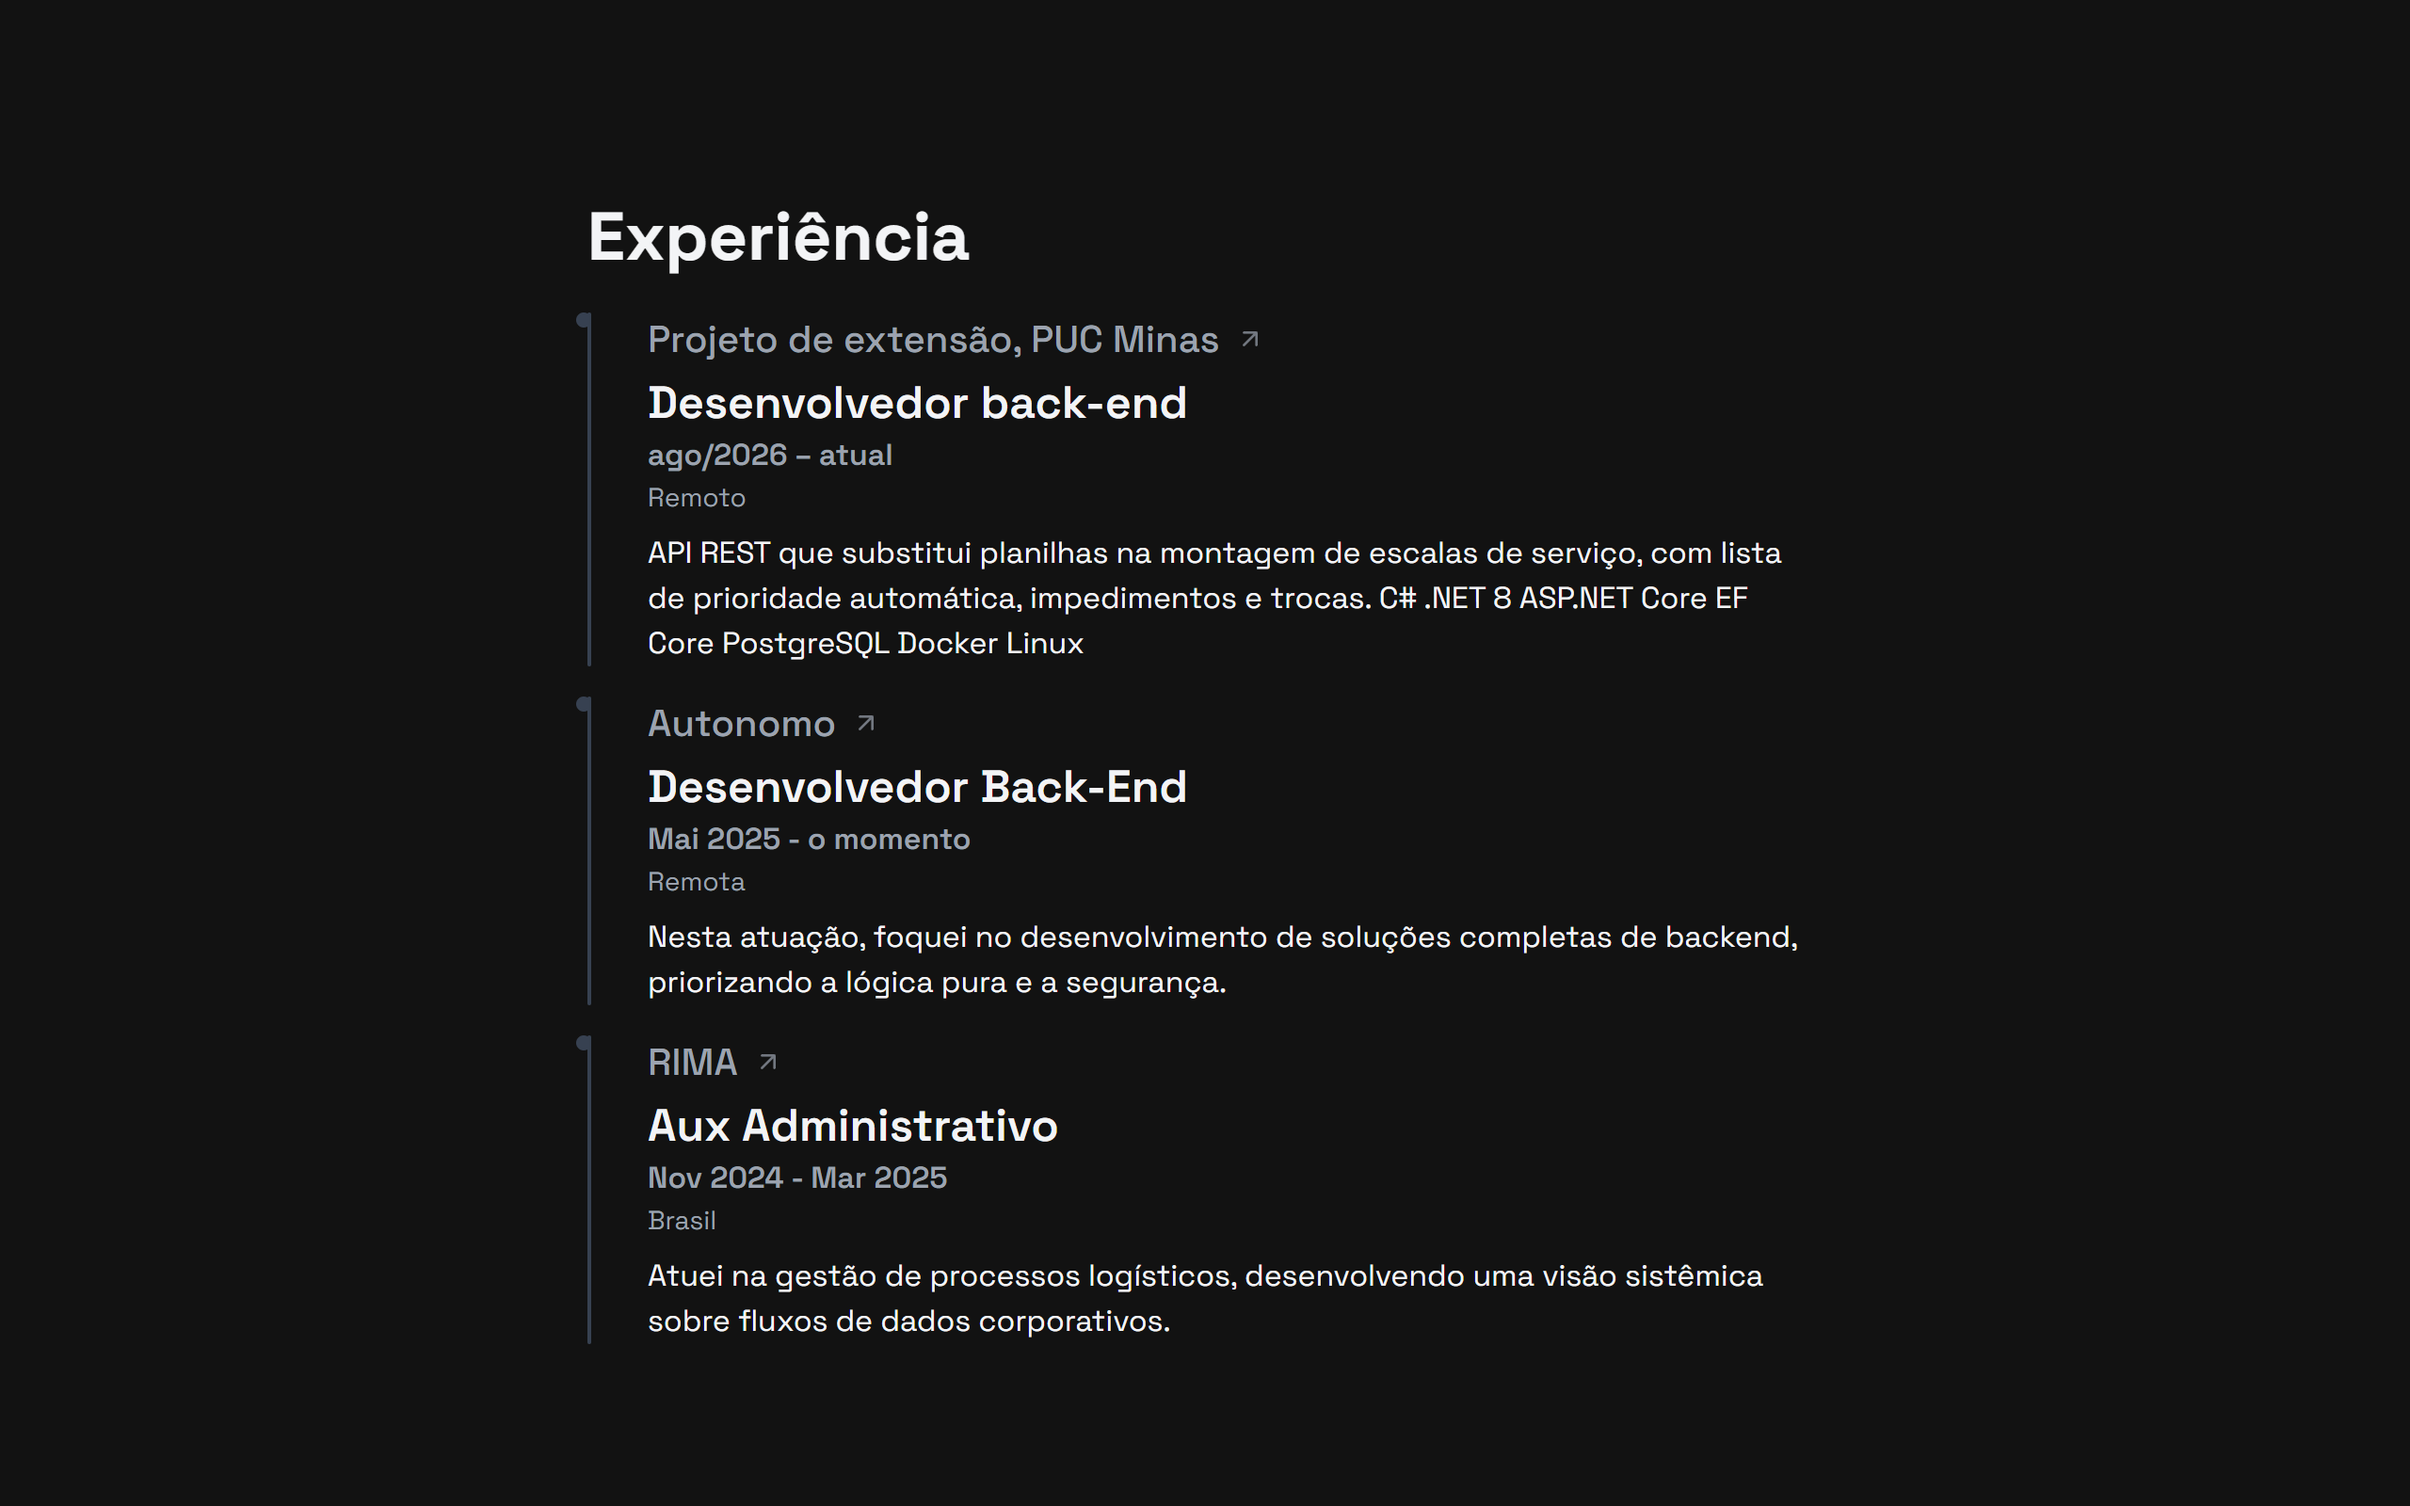
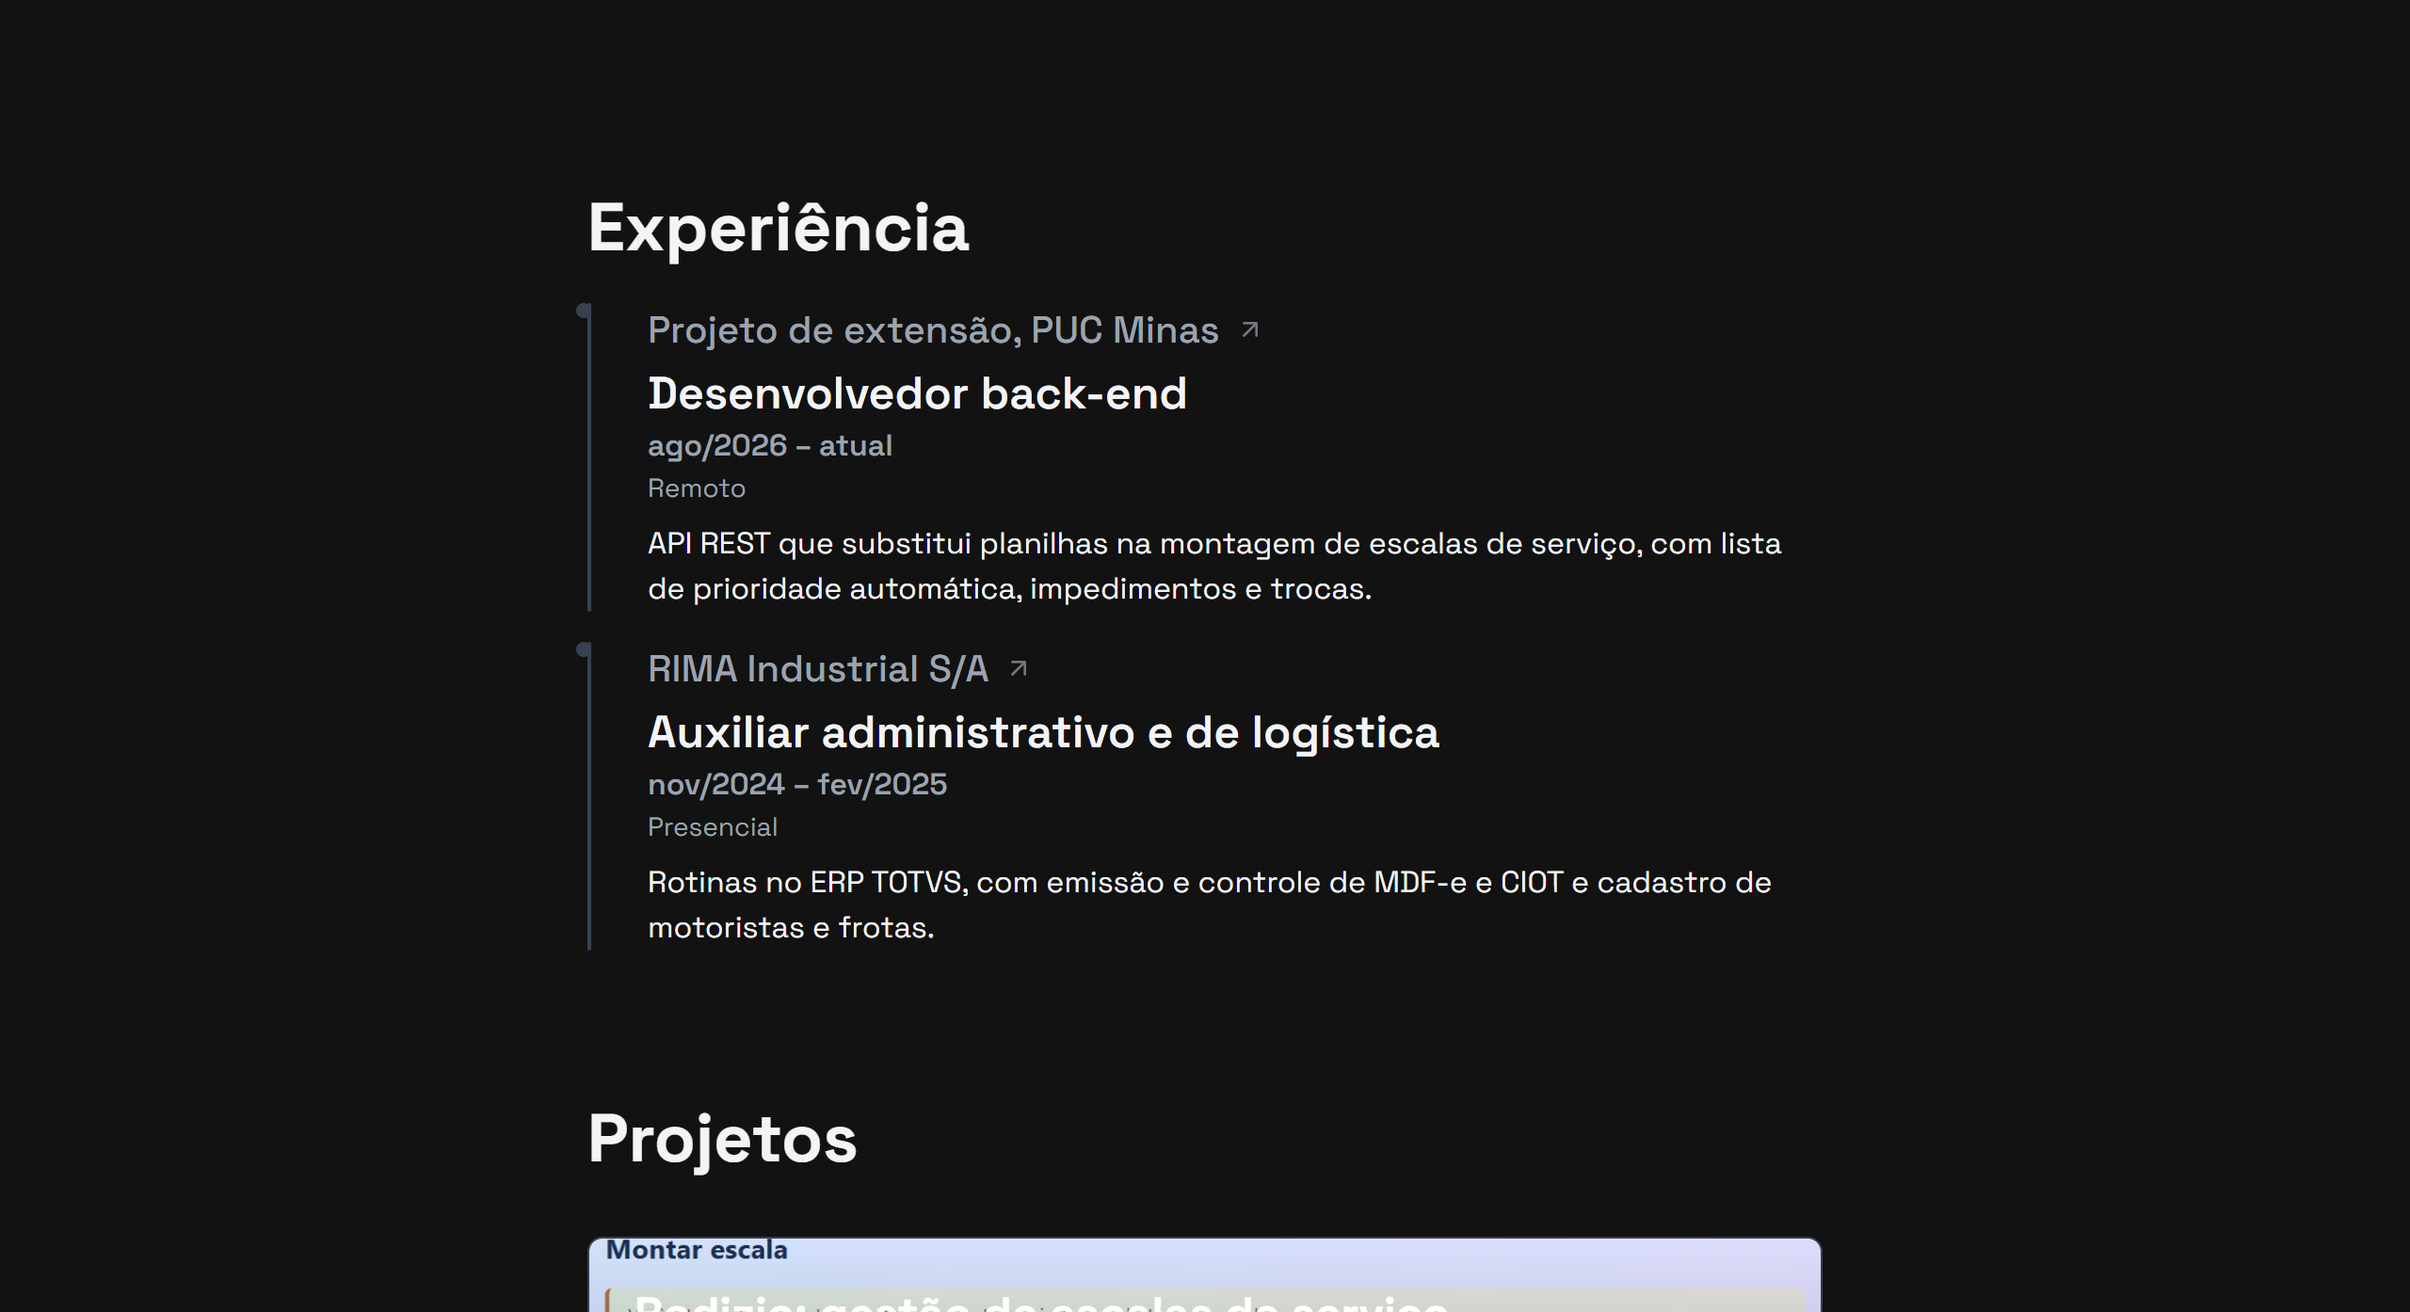
docs: print de experiências corrigido e texto alternativo da imagem

Changed region(s): [[0.2188, 0.1234, 0.75, 0.8945], [0.2188, 0.9254, 0.7812, 1.0]]

diff --git a/README.md b/README.md
@@ -112,7 +112,7 @@ O site funciona tanto numa subpasta (como no XAMPP) quanto na raiz de um domíni
 ## Site público
 
 ![Página inicial do site, montada com o conteúdo do banco](images/site-publico.png)
-![Página inicial do site, montada com o conteúdo do banco](images/site-publico-experiencias.png)
+![Página de experiências do site, montada com o conteúdo do banco](images/site-publico-experiencias.png)
 
 ## Créditos e licença
 
